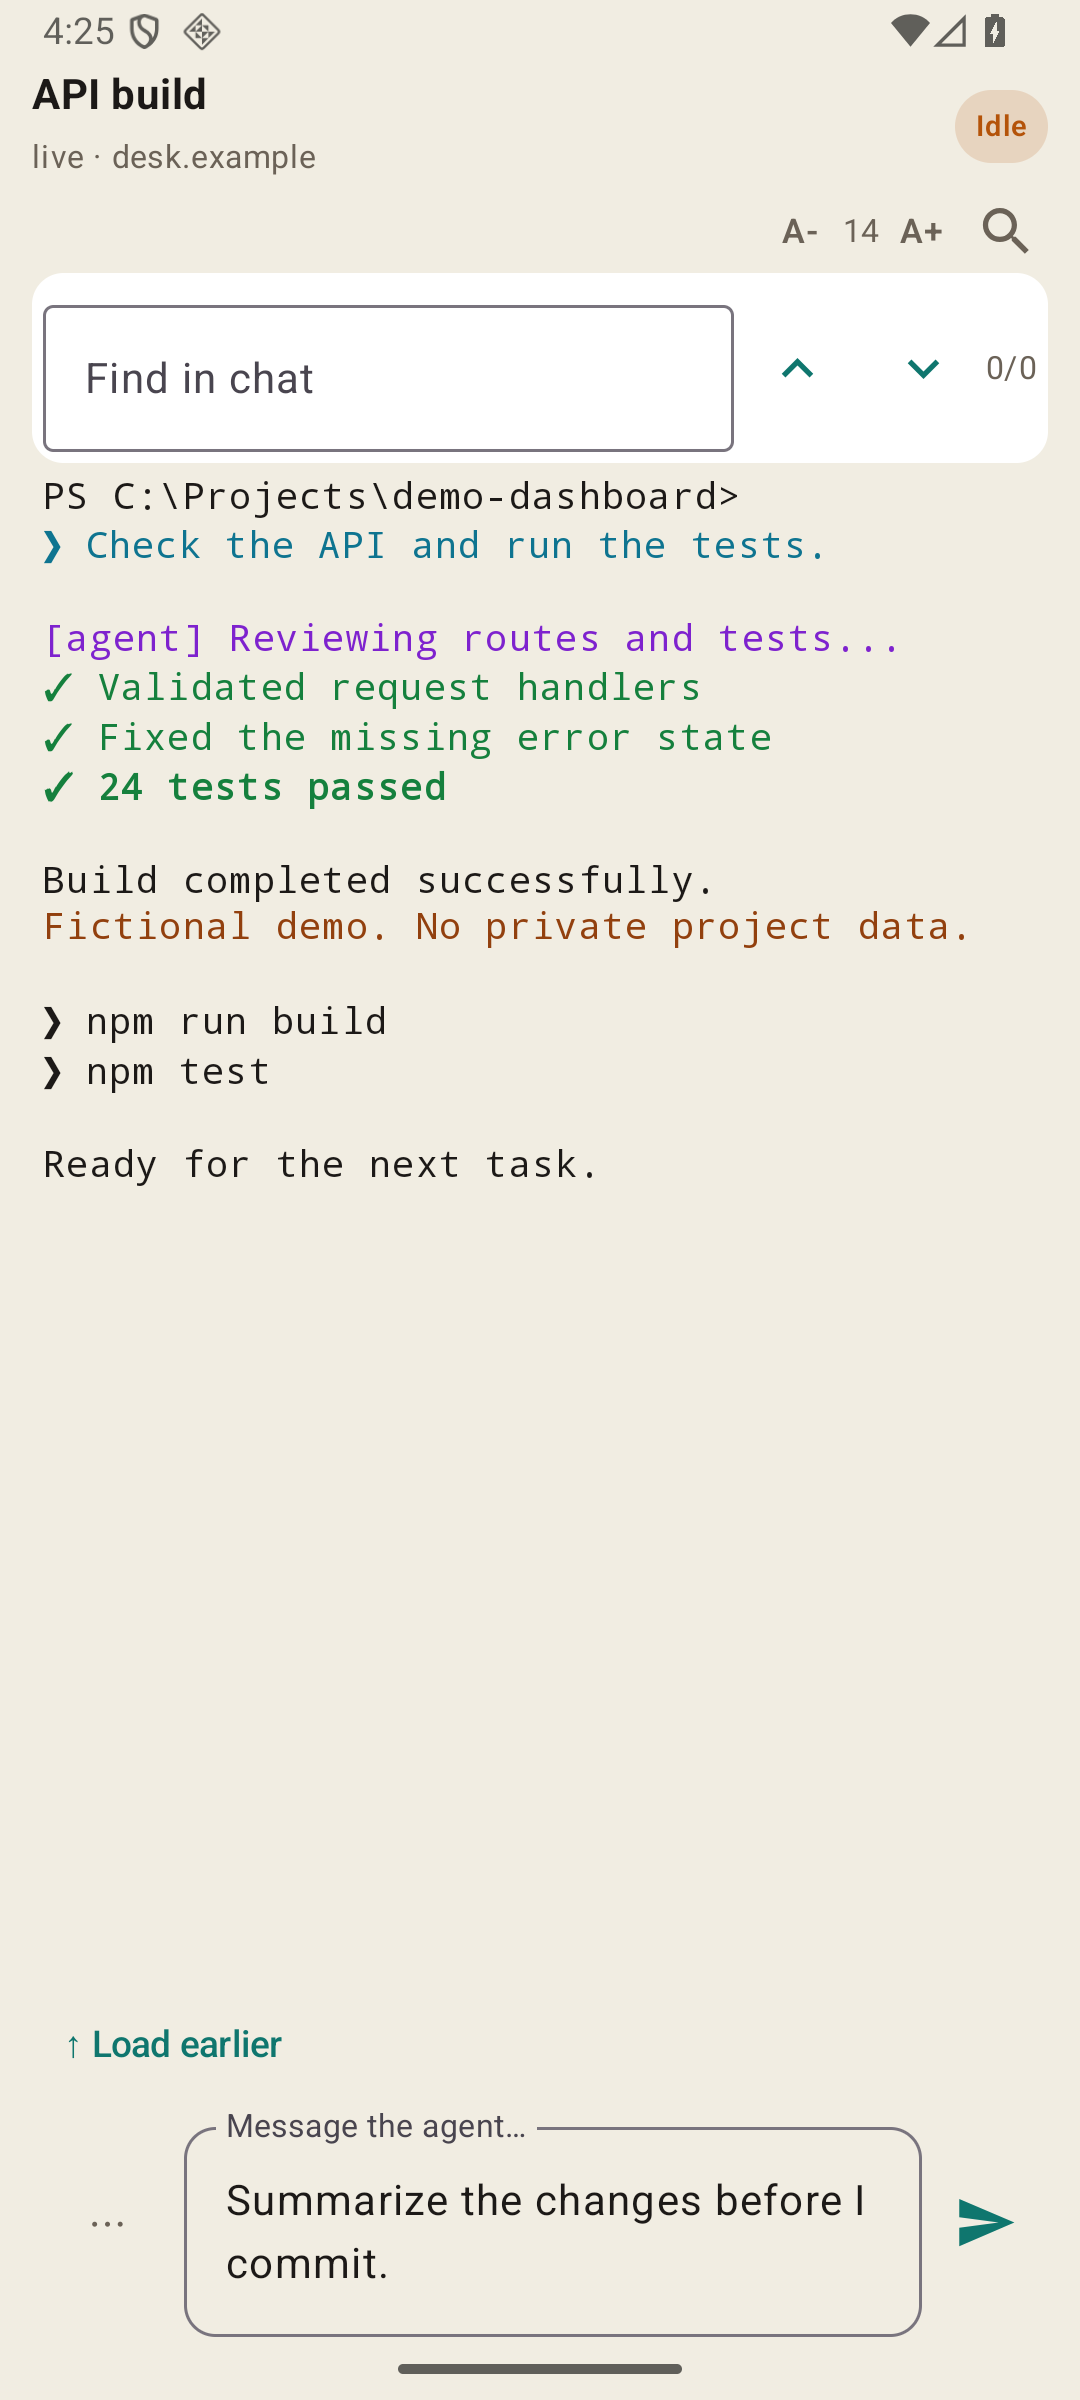
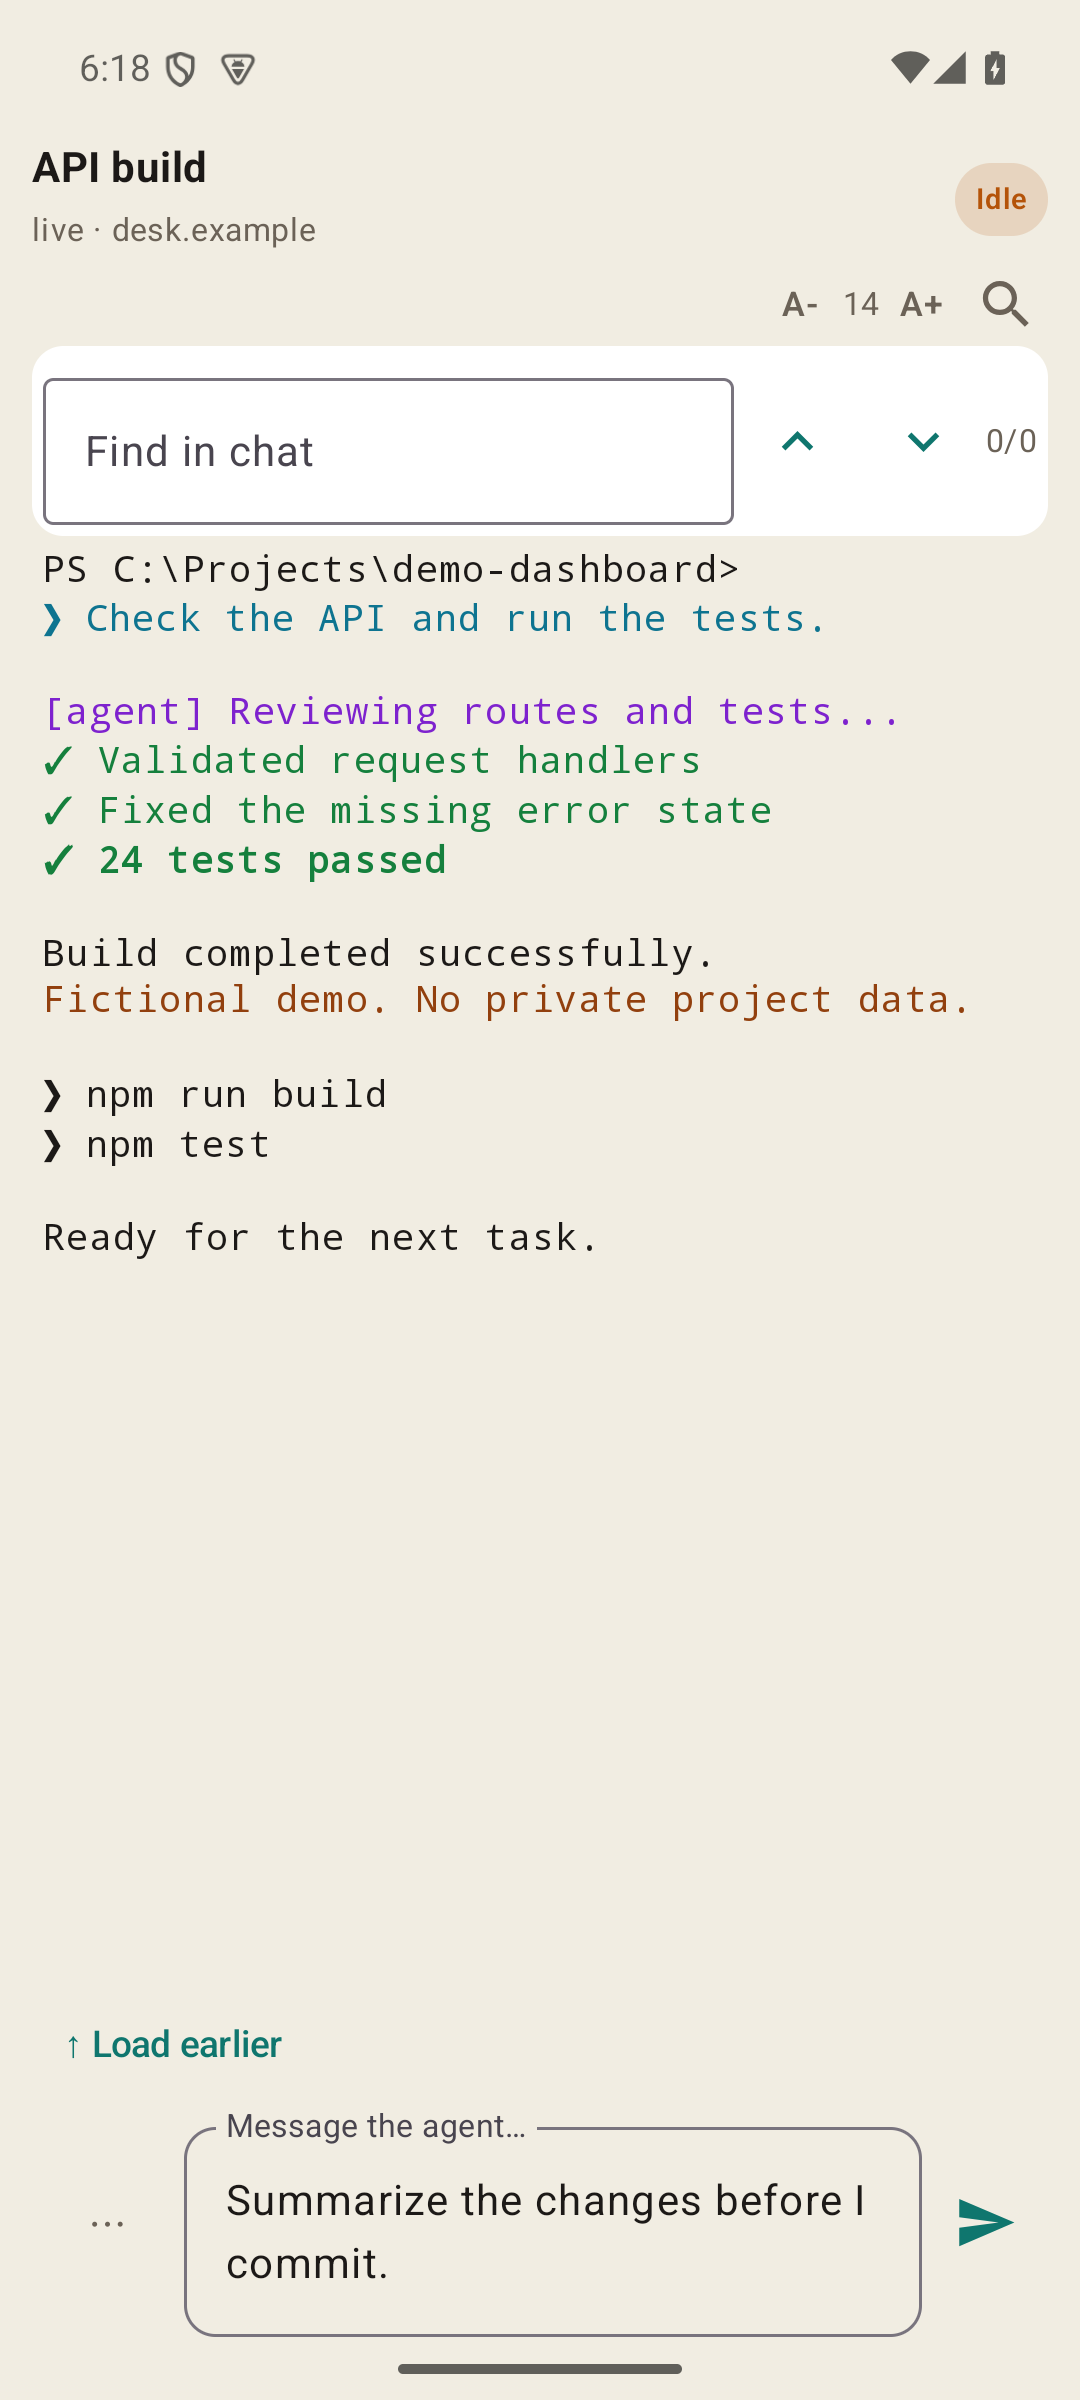
Session picker Cancel and chat sidebar drawer
The session picker gains Cancel beside CONNECT; cancelling tears down
the pending connection attempt and returns to the connection list. The
chat header gains a menu button opening a sidebar with the live
computers and Manage connections, so more servers are one tap away.
Screenshots regenerated from the fictional-data fixture.

diff --git a/app/src/main/java/io/github/razvanmanolache/herdronthego/Screens.kt b/app/src/main/java/io/github/razvanmanolache/herdronthego/Screens.kt
@@ -42,6 +42,7 @@ import androidx.compose.material.icons.filled.Close
 import androidx.compose.material.icons.filled.Delete
 import androidx.compose.material.icons.filled.KeyboardArrowDown
 import androidx.compose.material.icons.filled.KeyboardArrowUp
+import androidx.compose.material.icons.filled.Menu
 import androidx.compose.material.icons.filled.Refresh
 import androidx.compose.material.icons.filled.Search
 import androidx.compose.material.icons.filled.Send
@@ -54,6 +55,11 @@ import androidx.compose.material3.Checkbox
 import androidx.compose.material3.CircularProgressIndicator
 import androidx.compose.material3.Icon
 import androidx.compose.material3.IconButton
+import androidx.compose.material3.DrawerValue
+import androidx.compose.material3.HorizontalDivider
+import androidx.compose.material3.ModalDrawerSheet
+import androidx.compose.material3.ModalNavigationDrawer
+import androidx.compose.material3.rememberDrawerState
 import androidx.compose.material3.MaterialTheme
 import androidx.compose.material3.OutlinedTextField
 import androidx.compose.material3.Surface
@@ -390,12 +396,20 @@ fun SessionsScreen(c: BridgeController) {
             }
         }
         Spacer(Modifier.height(16.dp))
-        Button(onClick = { c.attach(picked) }, modifier = Modifier.fillMaxWidth(),
-            enabled = c.sessions.any { it.name == picked && it.reachable } && c.busy == null,
-            shape = RoundedCornerShape(14.dp),
-            colors = ButtonDefaults.buttonColors(
-                containerColor = t.accent, contentColor = t.onAccent)) {
-            Text("CONNECT", fontWeight = FontWeight.Bold)
+        Row(verticalAlignment = Alignment.CenterVertically) {
+            TextButton(onClick = { c.cancelConnect() },
+                modifier = Modifier.weight(1f)) {
+                Text("Cancel", color = t.dim)
+            }
+            Spacer(Modifier.width(8.dp))
+            Button(onClick = { c.attach(picked) },
+                modifier = Modifier.weight(2f),
+                enabled = c.sessions.any { it.name == picked && it.reachable } && c.busy == null,
+                shape = RoundedCornerShape(14.dp),
+                colors = ButtonDefaults.buttonColors(
+                    containerColor = t.accent, contentColor = t.onAccent)) {
+                Text("CONNECT", fontWeight = FontWeight.Bold)
+            }
         }
     }
 }
@@ -424,94 +438,155 @@ fun AgentScreen(c: BridgeController) {
 
     // NOTE: status-bar pad keeps the header row out from under the
     // system bar (untappable there on edge-to-edge, targetSdk 35).
-    Column(Modifier.fillMaxSize().statusBarsPadding()) {
-        Row(Modifier.fillMaxWidth()
-            .padding(horizontal = 8.dp, vertical = 2.dp),
-            verticalAlignment = Alignment.CenterVertically) {
-            // NOTE: the colored dot names the live computer behind this
-            // view — tap it to switch computers without leaving the app.
-            TextButton(onClick = { showServers = true }, modifier = Modifier.weight(1f),
-                contentPadding = PaddingValues(horizontal = 4.dp)) {
-                Box(Modifier.size(8.dp).clip(CircleShape)
-                    .background(c.activeColor()))
-                Spacer(Modifier.width(6.dp))
-                Text(c.activeHost().ifBlank { "…" }, color = t.text,
-                    fontWeight = FontWeight.SemiBold, fontSize = 14.sp,
-                    maxLines = 1, overflow = TextOverflow.Ellipsis)
-            }
-            TextButton(onClick = { showSpaces = true }, modifier = Modifier.weight(1f),
-                contentPadding = PaddingValues(horizontal = 4.dp)) {
-                Text(snap?.workspaces?.firstOrNull { it.workspaceId == currentTab?.workspaceId }?.label
-                    ?: "…", color = t.text, fontWeight = FontWeight.SemiBold,
-                    fontSize = 15.sp, maxLines = 1, overflow = TextOverflow.Ellipsis)
-                Text(" ▾", color = t.text, fontSize = 15.sp)
-            }
-            IconButton(onClick = { confirmDisconnect = true },
-                modifier = Modifier.size(32.dp)) {
-                Icon(Icons.Filled.Close, "close", tint = t.dim)
-            }
-        }
-        Row(Modifier.fillMaxWidth().padding(horizontal = 8.dp),
-            verticalAlignment = Alignment.CenterVertically) {
-            ThemeButton(c)
-            TextButton(onClick = { c.rawMode = !c.rawMode },
-                contentPadding = PaddingValues(horizontal = 4.dp)) {
-                Text(if (c.rawMode) "Raw ✓" else "Raw", color = t.dim,
-                    fontSize = 13.sp)
-            }
-            Spacer(Modifier.weight(1f))
-            Text("${snap?.agents?.size ?: 0} agents", color = t.dim, maxLines = 1,
-                fontSize = 12.sp,
-                modifier = Modifier.padding(horizontal = 4.dp))
-        }
-        // All connected computers and spaces stay one tap away.
-        Row(verticalAlignment = Alignment.CenterVertically) {
-            Box(Modifier.weight(1f)) {
-                Row(Modifier.fillMaxWidth().horizontalScroll(rememberScrollState())
-                    .padding(horizontal = 8.dp, vertical = 4.dp)) {
-                    destinations.forEach { tab ->
-                        val selected = c.isActive(tab.connection) && tab.tabId == c.currentTabId
-                        Column(Modifier.padding(end = 4.dp)
-                            .clip(RoundedCornerShape(14.dp))
-                            .background(if (selected) t.accent else t.surface)
-                            .clickable { c.openTab(tab) }
-                            .heightIn(min = 48.dp).width(150.dp)
-                            .padding(horizontal = 10.dp, vertical = 6.dp)) {
-                            Row(verticalAlignment = Alignment.CenterVertically) {
-                                Box(Modifier.size(6.dp).clip(CircleShape)
-                                    .background(statusColor(t, tab.status)))
-                                Spacer(Modifier.width(6.dp))
-                                Text(tab.label, fontSize = 13.sp, maxLines = 1,
-                                    overflow = TextOverflow.Ellipsis,
-                                    color = if (selected) t.onAccent else t.text,
-                                    fontWeight = if (selected) FontWeight.Bold else FontWeight.Normal)
+    val drawer = rememberDrawerState(initialValue = DrawerValue.Closed)
+    val drawerScope = rememberCoroutineScope()
+    // NOTE: the drawer opens only from the menu button; edge swipes stay
+    // with the tab strip so horizontal scrolling never fights navigation.
+    ModalNavigationDrawer(
+        drawerState = drawer,
+        gesturesEnabled = false,
+        drawerContent = {
+            ModalDrawerSheet(drawerContainerColor = t.surface) {
+                Column(Modifier.fillMaxSize().statusBarsPadding().padding(16.dp)) {
+                    Text("Herdr on the Go", color = t.text,
+                        fontWeight = FontWeight.Bold, fontSize = 17.sp)
+                    Text("Computers", color = t.dim, fontSize = 12.sp)
+                    Spacer(Modifier.height(8.dp))
+                    c.liveServers().forEach { srv ->
+                        Row(
+                            Modifier.fillMaxWidth()
+                                .clickable {
+                                    drawerScope.launch { drawer.close() }
+                                    c.activate(srv.conn.key)
+                                }
+                                .padding(vertical = 10.dp),
+                            verticalAlignment = Alignment.CenterVertically) {
+                            Box(Modifier.size(10.dp).clip(CircleShape)
+                                .background(srv.color))
+                            Spacer(Modifier.width(10.dp))
+                            Column(Modifier.weight(1f)) {
+                                Text(c.hostLabel(srv.conn), color = t.text,
+                                    fontWeight = FontWeight.SemiBold,
+                                    maxLines = 1,
+                                    overflow = TextOverflow.Ellipsis)
+                                Text("${srv.snapshot?.agents?.size ?: 0} agents",
+                                    color = t.dim, fontSize = 12.sp, maxLines = 1)
                             }
-                            Text(tab.context, fontSize = 10.sp, maxLines = 1,
-                                overflow = TextOverflow.Ellipsis,
-                                color = if (selected) t.onAccent else t.dim)
+                            if (c.isActive(srv.conn.key))
+                                Text("✓", color = t.accent,
+                                    fontWeight = FontWeight.Bold)
                         }
                     }
-                }
-                Box(Modifier.align(Alignment.CenterEnd).width(16.dp).height(48.dp)
-                    .background(Brush.horizontalGradient(listOf(t.bg.copy(alpha = 0f), t.bg))))
-            }
-            TextButton(onClick = { tabJump = true },
-                contentPadding = PaddingValues(horizontal = 8.dp)) {
-                Column(horizontalAlignment = Alignment.CenterHorizontally) {
-                    Text("All tabs", color = t.accent, fontSize = 13.sp)
-                    Text("${destinations.size} ▾", color = t.dim, fontSize = 12.sp)
+                    HorizontalDivider(color = t.surface2,
+                        modifier = Modifier.padding(vertical = 8.dp))
+                    Row(
+                        Modifier.fillMaxWidth()
+                            .clickable {
+                                drawerScope.launch { drawer.close() }
+                                c.screen = Screen.Connections
+                            }
+                            .padding(vertical = 12.dp),
+                        verticalAlignment = Alignment.CenterVertically) {
+                        Text("Manage connections", color = t.accent,
+                            fontWeight = FontWeight.SemiBold)
+                    }
                 }
             }
         }
-        if (currentPane != null && target != null) {
-            ChatDetail(c, currentTab?.label ?: paneId, currentPane, paneId,
-                target,
-                searchOpen, { searchOpen = it },
-                c.draft(target), { c.setDraft(target, it) }, { showCommands = true },
-                modifier = Modifier.weight(1f))
-        } else {
-            Box(Modifier.weight(1f).fillMaxWidth(), Alignment.Center) {
-                Text("No panes yet", color = t.dim)
+    ) {
+        Column(Modifier.fillMaxSize().statusBarsPadding()) {
+            Row(Modifier.fillMaxWidth()
+                .padding(horizontal = 8.dp, vertical = 2.dp),
+                verticalAlignment = Alignment.CenterVertically) {
+                IconButton(onClick = { drawerScope.launch { drawer.open() } },
+                    modifier = Modifier.size(32.dp)) {
+                    Icon(Icons.Filled.Menu, "menu", tint = t.text)
+                }
+                // NOTE: the colored dot names the live computer behind this
+                // view — tap it to switch computers without leaving the app.
+                TextButton(onClick = { showServers = true }, modifier = Modifier.weight(1f),
+                    contentPadding = PaddingValues(horizontal = 4.dp)) {
+                    Box(Modifier.size(8.dp).clip(CircleShape)
+                        .background(c.activeColor()))
+                    Spacer(Modifier.width(6.dp))
+                    Text(c.activeHost().ifBlank { "…" }, color = t.text,
+                        fontWeight = FontWeight.SemiBold, fontSize = 14.sp,
+                        maxLines = 1, overflow = TextOverflow.Ellipsis)
+                }
+                TextButton(onClick = { showSpaces = true }, modifier = Modifier.weight(1f),
+                    contentPadding = PaddingValues(horizontal = 4.dp)) {
+                    Text(snap?.workspaces?.firstOrNull { it.workspaceId == currentTab?.workspaceId }?.label
+                        ?: "…", color = t.text, fontWeight = FontWeight.SemiBold,
+                        fontSize = 15.sp, maxLines = 1, overflow = TextOverflow.Ellipsis)
+                    Text(" ▾", color = t.text, fontSize = 15.sp)
+                }
+                IconButton(onClick = { confirmDisconnect = true },
+                    modifier = Modifier.size(32.dp)) {
+                    Icon(Icons.Filled.Close, "close", tint = t.dim)
+                }
+            }
+            Row(Modifier.fillMaxWidth().padding(horizontal = 8.dp),
+                verticalAlignment = Alignment.CenterVertically) {
+                ThemeButton(c)
+                TextButton(onClick = { c.rawMode = !c.rawMode },
+                    contentPadding = PaddingValues(horizontal = 4.dp)) {
+                    Text(if (c.rawMode) "Raw ✓" else "Raw", color = t.dim,
+                        fontSize = 13.sp)
+                }
+                Spacer(Modifier.weight(1f))
+                Text("${snap?.agents?.size ?: 0} agents", color = t.dim, maxLines = 1,
+                    fontSize = 12.sp,
+                    modifier = Modifier.padding(horizontal = 4.dp))
+            }
+            // All connected computers and spaces stay one tap away.
+            Row(verticalAlignment = Alignment.CenterVertically) {
+                Box(Modifier.weight(1f)) {
+                    Row(Modifier.fillMaxWidth().horizontalScroll(rememberScrollState())
+                        .padding(horizontal = 8.dp, vertical = 4.dp)) {
+                        destinations.forEach { tab ->
+                            val selected = c.isActive(tab.connection) && tab.tabId == c.currentTabId
+                            Column(Modifier.padding(end = 4.dp)
+                                .clip(RoundedCornerShape(14.dp))
+                                .background(if (selected) t.accent else t.surface)
+                                .clickable { c.openTab(tab) }
+                                .heightIn(min = 48.dp).width(150.dp)
+                                .padding(horizontal = 10.dp, vertical = 6.dp)) {
+                                Row(verticalAlignment = Alignment.CenterVertically) {
+                                    Box(Modifier.size(6.dp).clip(CircleShape)
+                                        .background(statusColor(t, tab.status)))
+                                    Spacer(Modifier.width(6.dp))
+                                    Text(tab.label, fontSize = 13.sp, maxLines = 1,
+                                        overflow = TextOverflow.Ellipsis,
+                                        color = if (selected) t.onAccent else t.text,
+                                        fontWeight = if (selected) FontWeight.Bold else FontWeight.Normal)
+                                }
+                                Text(tab.context, fontSize = 10.sp, maxLines = 1,
+                                    overflow = TextOverflow.Ellipsis,
+                                    color = if (selected) t.onAccent else t.dim)
+                            }
+                        }
+                    }
+                    Box(Modifier.align(Alignment.CenterEnd).width(16.dp).height(48.dp)
+                        .background(Brush.horizontalGradient(listOf(t.bg.copy(alpha = 0f), t.bg))))
+                }
+                TextButton(onClick = { tabJump = true },
+                    contentPadding = PaddingValues(horizontal = 8.dp)) {
+                    Column(horizontalAlignment = Alignment.CenterHorizontally) {
+                        Text("All tabs", color = t.accent, fontSize = 13.sp)
+                        Text("${destinations.size} ▾", color = t.dim, fontSize = 12.sp)
+                    }
+                }
+            }
+            if (currentPane != null && target != null) {
+                ChatDetail(c, currentTab?.label ?: paneId, currentPane, paneId,
+                    target,
+                    searchOpen, { searchOpen = it },
+                    c.draft(target), { c.setDraft(target, it) }, { showCommands = true },
+                    modifier = Modifier.weight(1f))
+            } else {
+                Box(Modifier.weight(1f).fillMaxWidth(), Alignment.Center) {
+                    Text("No panes yet", color = t.dim)
+                }
             }
         }
     }

diff --git a/app/src/main/java/io/github/razvanmanolache/herdronthego/App.kt b/app/src/main/java/io/github/razvanmanolache/herdronthego/App.kt
@@ -747,19 +747,39 @@ class BridgeController(private val ctx: Context) {
         val srv = active() ?: run { screen = Screen.Connections; return }
         srv.keepConnected = false
         work {
-            recordSummary(srv)
-            srv.attachmentEpoch++
-            srv.attached = false
-            AgentNotif.cancelServer(ctx, srv)
-            releaseFit(srv)
-            srv.bridge.disconnect()
-            srv.sessionPassword = null
-            servers.remove(srv.conn.key)
-            recent.remove(srv.conn.key)
+            teardown(srv)
             val next = liveServers().lastOrNull()
             if (next != null) activateNow(next)
             else onUi { activeKey = null; screen = Screen.Connections }
         }
+    }
+
+    /** Abort from the session picker: the same teardown as disconnect,
+    but always landing on the connection list. Only an unattached
+    attempt is torn down; a live session is never killed from here. */
+    fun cancelConnect() {
+        val srv = active()
+        if (srv == null || srv.attached) {
+            screen = Screen.Connections
+            return
+        }
+        srv.keepConnected = false
+        work {
+            teardown(srv)
+            onUi { activeKey = null; screen = Screen.Connections }
+        }
+    }
+
+    private fun teardown(srv: ServerConn) {
+        recordSummary(srv)
+        srv.attachmentEpoch++
+        srv.attached = false
+        AgentNotif.cancelServer(ctx, srv)
+        releaseFit(srv)
+        srv.bridge.disconnect()
+        srv.sessionPassword = null
+        servers.remove(srv.conn.key)
+        recent.remove(srv.conn.key)
     }
 
     private fun activateNow(srv: ServerConn) {
